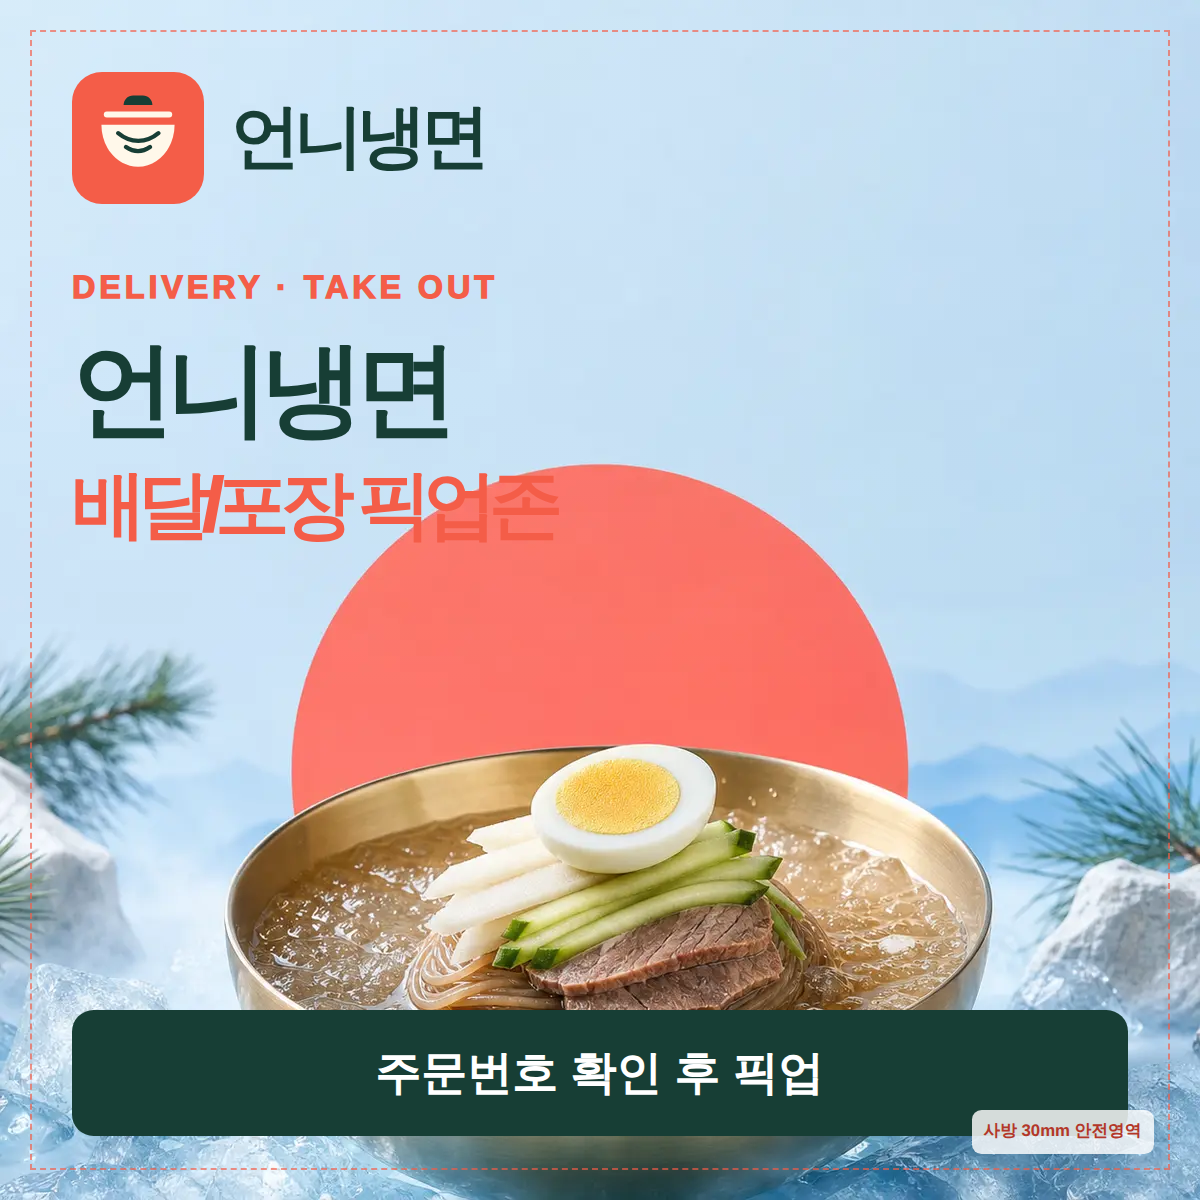
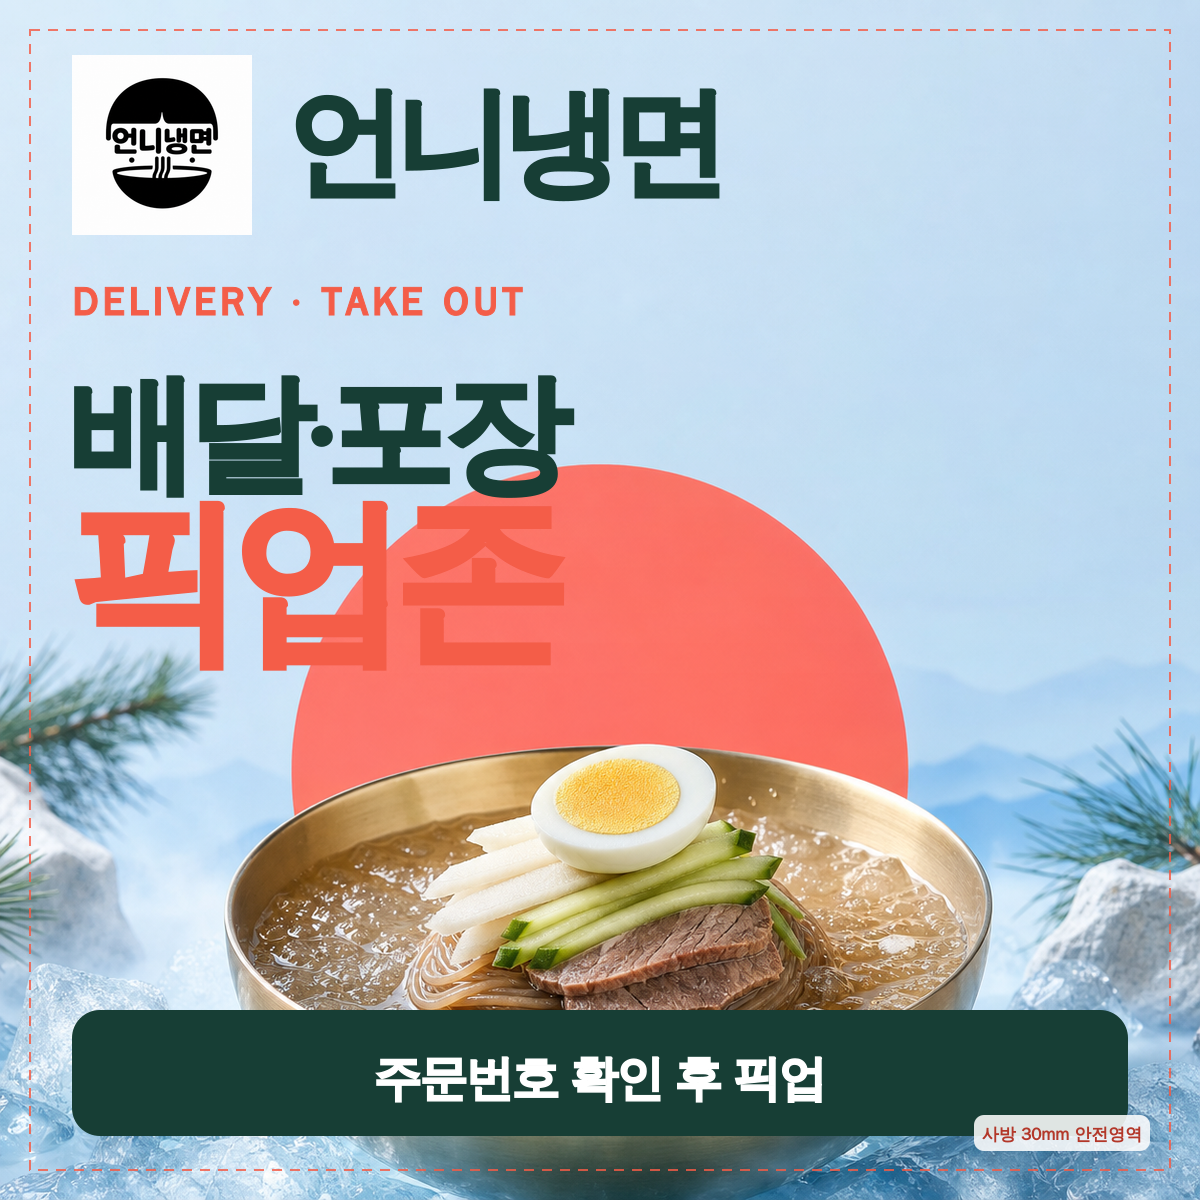
fix: enlarge unni branding on guides and pickup signs

Changed region(s): [[0.0617, 0.0308, 0.6167, 0.555], [0.3083, 0.8633, 0.7092, 0.925], [0.8017, 0.925, 0.9867, 0.9867]]

diff --git a/src/app/unni-naengmyeon/brand/banners/page.module.css b/src/app/unni-naengmyeon/brand/banners/page.module.css
@@ -34,10 +34,10 @@
 .coverImage, .backImage, .pickupImage { z-index: -3; object-fit: cover; }
 .bannerInner { position: absolute; inset: 0; z-index: 1; display: flex; flex-direction: column; padding: 7.8cqw 8cqw; }
 .bannerLogo { display: flex; align-items: center; gap: 2.2cqw; }
-.bannerLogo img { width: 13cqw; height: 13cqw; border-radius: 2.7cqw; }
-.bannerLogo strong { color: var(--green); font-size: 6.3cqw; font-weight: 950; letter-spacing: -.09em; white-space: nowrap; }
+.bannerLogo img { width: 17cqw; height: 17cqw; border-radius: 2.7cqw; object-fit: cover; mix-blend-mode: multiply; }
+.bannerLogo strong { color: var(--green); font-size: 8.6cqw; font-weight: 950; letter-spacing: -.1em; white-space: nowrap; }
 .inverseLogo strong { color: white; }
-.inverseLogo img { background: white; }
+.inverseLogo img { background: white; mix-blend-mode: normal; }
 .frontShade, .backShade, .pickupShade { position: absolute; inset: 0; z-index: -2; }
 .frontShade { background: linear-gradient(180deg, rgba(255,248,234,.98) 0%, rgba(255,248,234,.88) 35%, rgba(255,248,234,.08) 58%, rgba(7,30,26,.72) 100%); }
 .backShade { background: linear-gradient(180deg, rgba(255,248,234,.98), rgba(255,248,234,.94) 49%, rgba(255,248,234,.76) 72%, rgba(255,248,234,.96)); }
@@ -82,12 +82,13 @@
 .pickupConcept > div:first-child h3 { margin: 7px 0 8px; font-size: 27px; letter-spacing: -.05em; }
 .pickupConcept > div:first-child p { margin: 0 0 22px; color: #6d7773; font-size: 13px; line-height: 1.6; }
 .pickupBanner { position: relative; aspect-ratio: 1; overflow: hidden; container-type: inline-size; background: white; box-shadow: 0 18px 48px rgba(23,62,53,.15); isolation: isolate; }
-.pickupInner { position: absolute; inset: 0; z-index: 1; padding: 6cqw; }
-.pickupInner .bannerLogo img { width: 11cqw; height: 11cqw; border-radius: 2cqw; }
-.pickupInner .bannerLogo strong { font-size: 5.8cqw; }
-.pickupInner > span { display: block; margin-top: 5cqw; color: var(--coral); font-size: 2.7cqw; font-weight: 950; letter-spacing: .12em; }
-.pickupInner h4 { margin: 2cqw 0 0; font-size: 8.6cqw; font-weight: 950; letter-spacing: -.085em; line-height: 1.02; }
-.pickupInner h4 em { display: inline-block; color: var(--coral); font-size: .72em; font-style: normal; }
+.pickupInner { position: absolute; inset: 0; z-index: 1; padding: 5.5cqw 6cqw; }
+.pickupInner .bannerLogo { gap: 3cqw; }
+.pickupInner .bannerLogo img { width: 17cqw; height: 17cqw; border-radius: 3cqw; }
+.pickupInner .bannerLogo strong { font-size: 11.7cqw; line-height: .9; }
+.pickupInner > span { display: block; margin-top: 5.5cqw; color: var(--coral); font-size: 3.1cqw; font-weight: 950; letter-spacing: .12em; }
+.pickupInner h4 { margin: 2.4cqw 0 0; font-size: 13.7cqw; font-weight: 950; letter-spacing: -.095em; line-height: .92; }
+.pickupInner h4 em { display: block; margin-top: 3cqw; color: var(--coral); font-size: .56em; font-style: normal; letter-spacing: -.075em; }
 .pickupInner > strong { position: absolute; right: 6cqw; bottom: 5.4cqw; left: 6cqw; padding: 2.4cqw; border-radius: 1.8cqw; background: var(--green); color: white; font-size: 3.8cqw; text-align: center; }
 .pickupIce .pickupShade { background: linear-gradient(180deg, rgba(230,247,255,.22), transparent 58%); }
 .pickupNight { color: white; }

diff --git a/src/app/unni-naengmyeon/brand/brandShell.module.css b/src/app/unni-naengmyeon/brand/brandShell.module.css
@@ -10,7 +10,7 @@
 
 .headerInner {
   width: min(1180px, calc(100% - 40px));
-  height: 84px;
+  height: 104px;
   margin: auto;
   display: flex;
   align-items: center;
@@ -21,21 +21,21 @@
 .brand {
   display: flex;
   align-items: center;
-  gap: 11px;
+  gap: 15px;
   color: #173e35;
   text-decoration: none;
 }
 
 .brand img {
-  width: 56px;
-  height: 56px;
-  border-radius: 14px;
+  width: 76px;
+  height: 76px;
+  border-radius: 17px;
   object-fit: cover;
   mix-blend-mode: multiply;
 }
 
 .brand span {
-  font-size: 26px;
+  font-size: clamp(31px, 3vw, 40px);
   font-weight: 950;
   letter-spacing: -.09em;
   white-space: nowrap;
@@ -65,10 +65,10 @@
 }
 
 @media (max-width: 640px) {
-  .headerInner { width: min(100% - 24px, 560px); height: 72px; gap: 12px; }
+  .headerInner { width: min(100% - 24px, 560px); height: 82px; gap: 10px; }
   .brand { gap: 8px; }
-  .brand img { width: 46px; height: 46px; border-radius: 11px; }
-  .brand span { font-size: 20px; }
+  .brand img { width: 54px; height: 54px; border-radius: 12px; }
+  .brand span { font-size: 24px; }
   .nav { gap: 2px; }
   .nav a { padding: 8px 7px; font-size: 10px; }
   .nav a:first-child { display: none; }

diff --git a/src/app/unni-naengmyeon/brand/logo/page.module.css b/src/app/unni-naengmyeon/brand/logo/page.module.css
@@ -9,12 +9,16 @@
 }
 
 .page * { box-sizing: border-box; }
-.hero { width: min(1120px, calc(100% - 40px)); margin: auto; display: grid; grid-template-columns: .85fr 1.15fr; gap: 80px; align-items: center; padding: 90px 0 110px; }
+.hero { width: min(1180px, calc(100% - 40px)); margin: auto; display: grid; grid-template-columns: .78fr 1.22fr; gap: 70px; align-items: center; padding: 90px 0 110px; }
 .hero > div:first-child > span, .sectionHeading > span { color: var(--coral); font-size: 12px; font-weight: 900; letter-spacing: .18em; }
-.hero h1 { margin: 18px 0 24px; font-size: clamp(52px, 6vw, 82px); font-weight: 950; letter-spacing: -.08em; line-height: 1.04; }
+.hero h1 { margin: 18px 0 24px; line-height: 1; }
+.hero h1 strong { display: block; font-size: clamp(66px, 7vw, 104px); font-weight: 950; letter-spacing: -.1em; white-space: nowrap; }
+.hero h1 small { display: block; margin-top: 13px; color: var(--coral); font-size: clamp(27px, 3vw, 42px); font-weight: 900; letter-spacing: -.06em; }
 .hero p { max-width: 430px; margin: 0; color: #60706b; font-size: 16px; line-height: 1.9; }
-.mainLogo { padding: 44px; border-radius: 38px; background: white; box-shadow: 0 24px 80px rgba(23, 62, 53, .1); text-align: center; }
-.mainLogo img { display: block; width: 100%; height: auto; mix-blend-mode: multiply; }
+.mainLogo { padding: 38px 42px 30px; border-radius: 38px; background: white; box-shadow: 0 24px 80px rgba(23, 62, 53, .1); text-align: center; }
+.primaryLockup { display: flex; align-items: center; justify-content: center; gap: 26px; min-height: 310px; }
+.primaryLockup img { display: block; width: min(48%, 310px); height: auto; mix-blend-mode: multiply; }
+.primaryLockup span { color: var(--green); font-size: clamp(48px, 5.2vw, 78px); font-weight: 950; letter-spacing: -.1em; white-space: nowrap; }
 .mainLogo b { display: inline-block; margin-top: 16px; color: var(--coral); font-size: 11px; letter-spacing: .15em; }
 .rules, .palette, .variants { padding: 110px max(20px, calc((100% - 1120px) / 2)); }
 .rules { background: var(--green); color: white; }
@@ -52,7 +56,10 @@
 }
 
 @media (max-width: 520px) {
-  .hero h1 { font-size: 50px; }
+  .hero h1 strong { font-size: 61px; }
+  .primaryLockup { gap: 12px; min-height: 190px; }
+  .primaryLockup img { width: 41%; }
+  .primaryLockup span { font-size: 38px; }
   .rules, .palette, .variants { padding-top: 80px; padding-bottom: 80px; }
   .ruleGrid, .logoGrid { grid-template-columns: 1fr; }
   .swatches { min-height: 360px; }

diff --git a/src/app/unni-naengmyeon/brand/banners/page.tsx b/src/app/unni-naengmyeon/brand/banners/page.tsx
@@ -4,7 +4,7 @@ import BrandNav from "../BrandNav";
 import styles from "./page.module.css";
 
 const ASSET_ROOT = "/brands/unni-naengmyeon/banners-20260722";
-const MARK = "/brands/unni-naengmyeon/mark.svg";
+const BRAND_LOGO = "/brands/unni-naengmyeon/bowlcut-logo-concepts-20260722/concept-h-wordmark-noodles.png";
 
 type ConceptTone = "classic" | "night" | "ice" | "premium" | "coral";
 
@@ -105,7 +105,7 @@ const pickupConcepts = [
     image: "concept-p1-ice-blue.png",
     tone: "pickupIce",
     eyebrow: "DELIVERY · TAKE OUT",
-    title: <>언니냉면<br /><em>배달/포장 픽업존</em></>,
+    title: <>배달·포장<br /><em>픽업존</em></>,
     guide: "주문번호 확인 후 픽업",
   },
   {
@@ -115,7 +115,7 @@ const pickupConcepts = [
     image: "concept-p2-rider-arrow.png",
     tone: "pickupNight",
     eyebrow: "배달기사님, 여기입니다",
-    title: <>언니냉면<br /><em>배달/포장 픽업존</em></>,
+    title: <>배달·포장<br /><em>픽업존</em></>,
     guide: "픽업은 이쪽  →",
   },
   {
@@ -125,7 +125,7 @@ const pickupConcepts = [
     image: "concept-p3-friendly-pack.png",
     tone: "pickupCream",
     eyebrow: "어서 오세요",
-    title: <>언니냉면<br /><em>배달/포장 픽업존</em></>,
+    title: <>배달·포장<br /><em>픽업존</em></>,
     guide: "포장 주문 · 배달 픽업",
   },
 ];
@@ -138,7 +138,7 @@ export const metadata: Metadata = {
 function BannerLogo({ inverse = false }: { inverse?: boolean }) {
   return (
     <div className={`${styles.bannerLogo} ${inverse ? styles.inverseLogo : ""}`}>
-      <Image src={MARK} alt="" width={220} height={220} />
+      <Image src={BRAND_LOGO} alt="언니냉면 컨셉 H 로고" width={1254} height={1254} />
       <strong>언니냉면</strong>
     </div>
   );

diff --git a/src/app/unni-naengmyeon/brand/logo/page.tsx b/src/app/unni-naengmyeon/brand/logo/page.tsx
@@ -26,11 +26,14 @@ export default function UnniLogoGuidePage() {
       <section className={styles.hero}>
         <div>
           <span>BRAND IDENTITY · 2026</span>
-          <h1>언니냉면<br />로고 가이드</h1>
+          <h1><strong>언니냉면</strong><small>로고 가이드</small></h1>
           <p>둥근 바가지머리, 중앙 워드마크, 냉면 그릇을 하나로 연결한 컨셉 H를 메인 로고로 사용합니다.</p>
         </div>
         <div className={styles.mainLogo}>
-          <Image src={`${LOGO_ROOT}/concept-h-wordmark-noodles.png`} alt="언니냉면 컨셉 H 메인 로고" width={1254} height={1254} priority />
+          <div className={styles.primaryLockup}>
+            <Image src={`${LOGO_ROOT}/concept-h-wordmark-noodles.png`} alt="바가지머리와 냉면 그릇을 결합한 언니냉면 컨셉 H 메인 로고" width={1254} height={1254} priority />
+            <span aria-hidden="true">언니냉면</span>
+          </div>
           <b>PRIMARY LOGO · CONCEPT H</b>
         </div>
       </section>

diff --git a/src/app/unni-naengmyeon/brand/BrandNav.tsx b/src/app/unni-naengmyeon/brand/BrandNav.tsx
@@ -9,8 +9,8 @@ export default function BrandNav() {
     <header className={styles.header}>
       <div className={styles.headerInner}>
         <Link className={styles.brand} href="/unni-naengmyeon" aria-label="언니냉면 홈">
-          <Image src={BRAND_LOGO} alt="언니냉면 컨셉 H 로고" width={1254} height={1254} priority />
-          <span>언니냉면</span>
+          <Image src={BRAND_LOGO} alt="바가지머리와 냉면 그릇을 결합한 언니냉면 컨셉 H 로고" width={1254} height={1254} priority />
+          <span aria-hidden="true">언니냉면</span>
         </Link>
         <nav className={styles.nav} aria-label="언니냉면 브랜드 메뉴">
           <Link href="/unni-naengmyeon">홈</Link>

diff --git a/HANDOVER.md b/HANDOVER.md
@@ -1166,3 +1166,20 @@
   - 공개 대상 소스에서 `열정국밥`, `고명희냉면`, 기존 배민 링크 검색 결과 0건.
 - 추천 조합: 실외 A `픽업 비콘` + 실내 P2 `라이더 애로우`. 기사 동선과 메뉴 판매 역할이 분명하고 원거리 방향 인지가 가장 빠르다.
 - 운영 영향/롤백: 언니냉면 프론트 페이지와 정적 이미지에만 영향이 있다. API·DB 변경은 없으며 문제 시 본 커밋을 revert한다. 원격 푸시·운영 배포는 CEO 승인 전 미실행이다.
+
+## 2026-07-22 21:21 KST - 최신 H 로고·대형 상호 및 유리 픽업 배너 가독성 보강
+
+- CEO 요청:
+  - `/unni-naengmyeon/brand/logo` 상단에 최신 컨셉 H 로고를 명확히 노출하고 `언니냉면` 상호를 더 크게 표시한다.
+  - 600×600 유리 부착용 픽업 배너 3안도 최신 H 로고로 통일하고 상호를 원거리에서 읽히도록 확대한다.
+- 반영:
+  - 브랜드 공통 상단 내비게이션 로고를 데스크톱 76px·모바일 54px로 확대하고, 독립 `언니냉면` 워드마크를 최대 40px로 보강했다.
+  - 로고 가이드 첫 화면을 `최신 H 로고 + 대형 언니냉면 워드마크` 가로 조합으로 재구성하고 페이지 제목에서도 상호를 최상위 계층으로 분리했다.
+  - 입간판·픽업존 페이지의 구형 `mark.svg`를 제거하고 모든 배너 로고를 `concept-h-wordmark-noodles.png`로 통일했다.
+  - 유리 픽업 배너 3안은 상호를 11.7cqw, 핵심 픽업 문구를 13.7cqw로 확대하고 `배달·포장 → 픽업존` 순서로 정보 계층을 단순화했다.
+  - 반복 제작 가능한 `scripts/render-unni-pickup-banners.mjs`를 추가하고 최신 H 로고·대형 상호가 적용된 다운로드 PNG 3장을 각각 1,200×1,200px로 재생성했다.
+- 검증:
+  - 대상 ESLint, `npx tsc --noEmit`, `git diff --check` 통과.
+  - `npm run build` 성공: Next.js 16.1.6, 로고·배너 페이지를 포함한 60개 라우트 생성.
+  - PNG 3장 파일 형식·1,200×1,200px 규격 확인 및 이미지 육안 검수 완료. P1/P2/P3 모두 최신 H 로고와 대형 `언니냉면` 워드마크가 정상 노출된다.
+- 운영 영향/롤백: 언니냉면 브랜드 페이지와 정적 픽업 PNG 3장만 변경한다. API·DB에는 영향이 없으며 문제 시 본 커밋을 revert하거나 직전 blue-green 슬롯으로 전환한다.